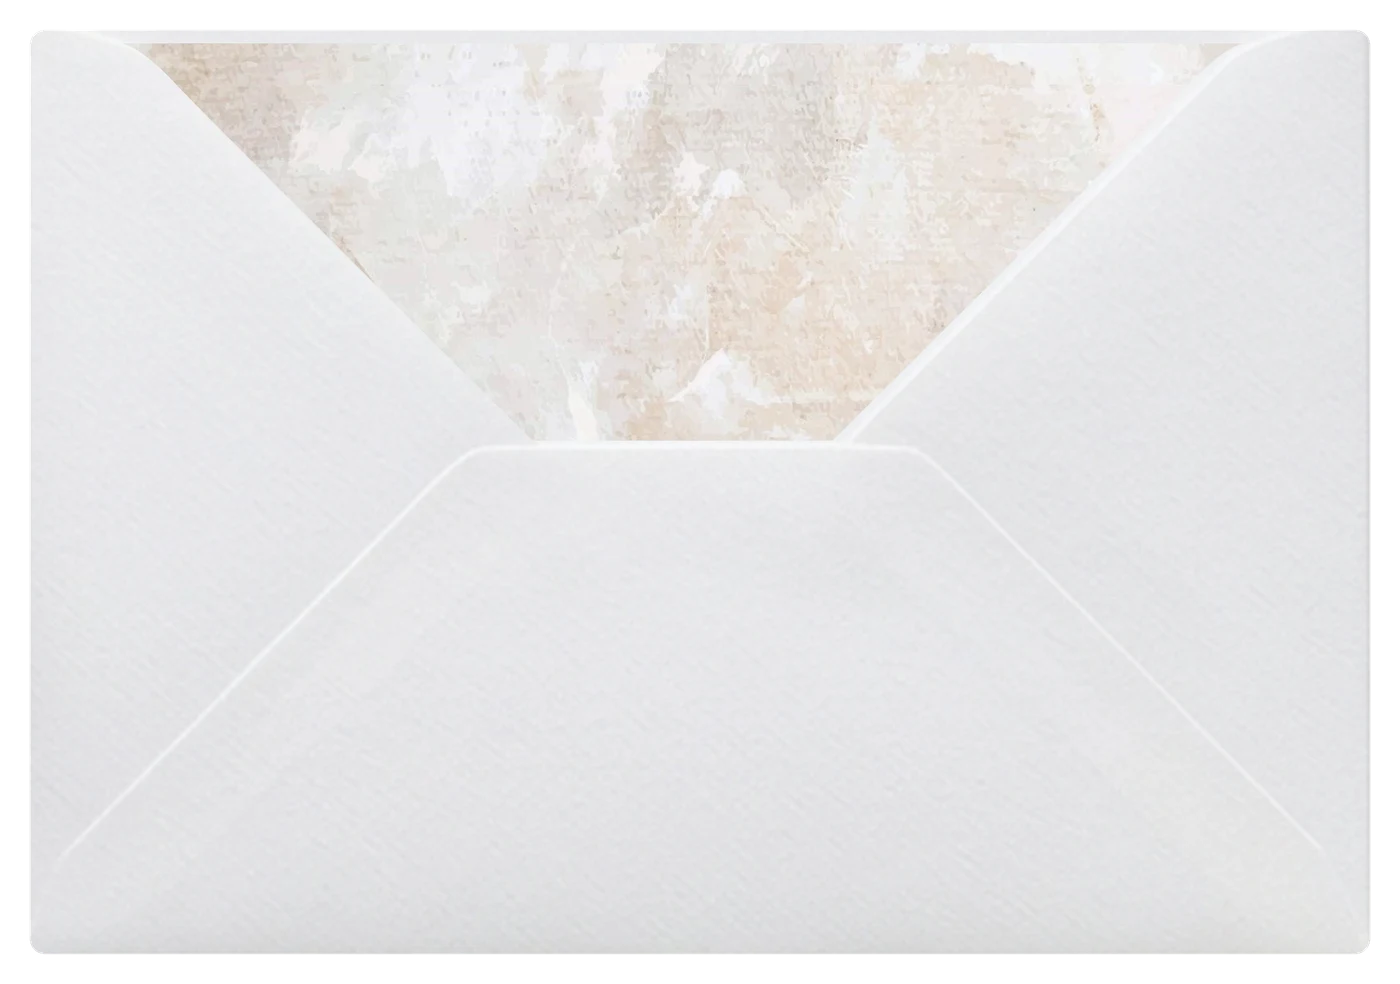
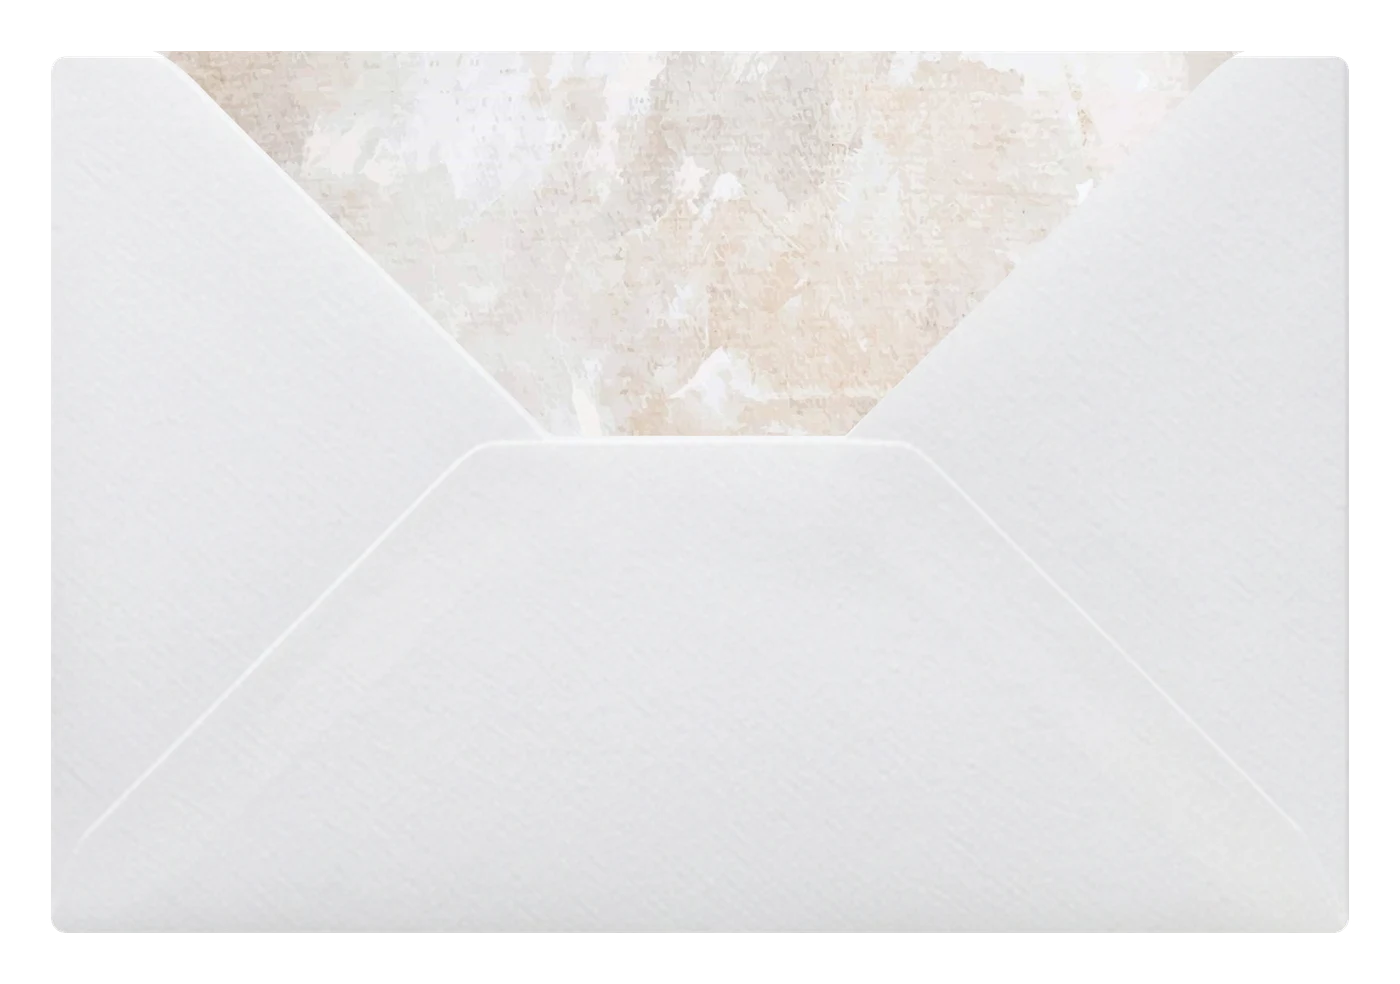
Mono Script cover: updated envelope body picture, flap positions adjusted to it

diff --git a/app/templates/mono-script.css b/app/templates/mono-script.css
@@ -464,3 +464,9 @@ body:has(.inv[data-template="mono-script"]) .music-btn { color:#111; border-colo
 
 /* ───────── 68. COVER envelope: no shadow at all (the pictures have none baked in, and nothing is added with CSS) ───────── */
 .inv[data-template="mono-script"] .env-art, .inv[data-template="mono-script"] .env-art img, .inv[data-template="mono-script"] .env-flap-closed, .inv[data-template="mono-script"] .cover-env { filter:none !important; box-shadow:none !important; }
+
+/* ───────── 69. COVER: positions for the updated envelope body picture. Body paper 1984 x 1348 inside a 2140 x 1504 picture (78px margin all round); the flap pictures are the same as before. Open flap: its base reaches ~68px under the body edge. ───────── */
+.inv[data-template="mono-script"] .cover-env { aspect-ratio:1984/1348; }
+.inv[data-template="mono-script"] .env-art { width:calc(100% * 2140 / 1984); aspect-ratio:2140/1504; }
+.inv[data-template="mono-script"] .env-flap-closed { left:1.014%; top:.505%; width:100.14%; height:77.7%; transform-origin:50% 6.02%; }
+.inv[data-template="mono-script"] .env-flap-open { left:2.706%; top:-61.5%; width:93.93%; height:110.64%; transform-origin:50% 64.3%; }
